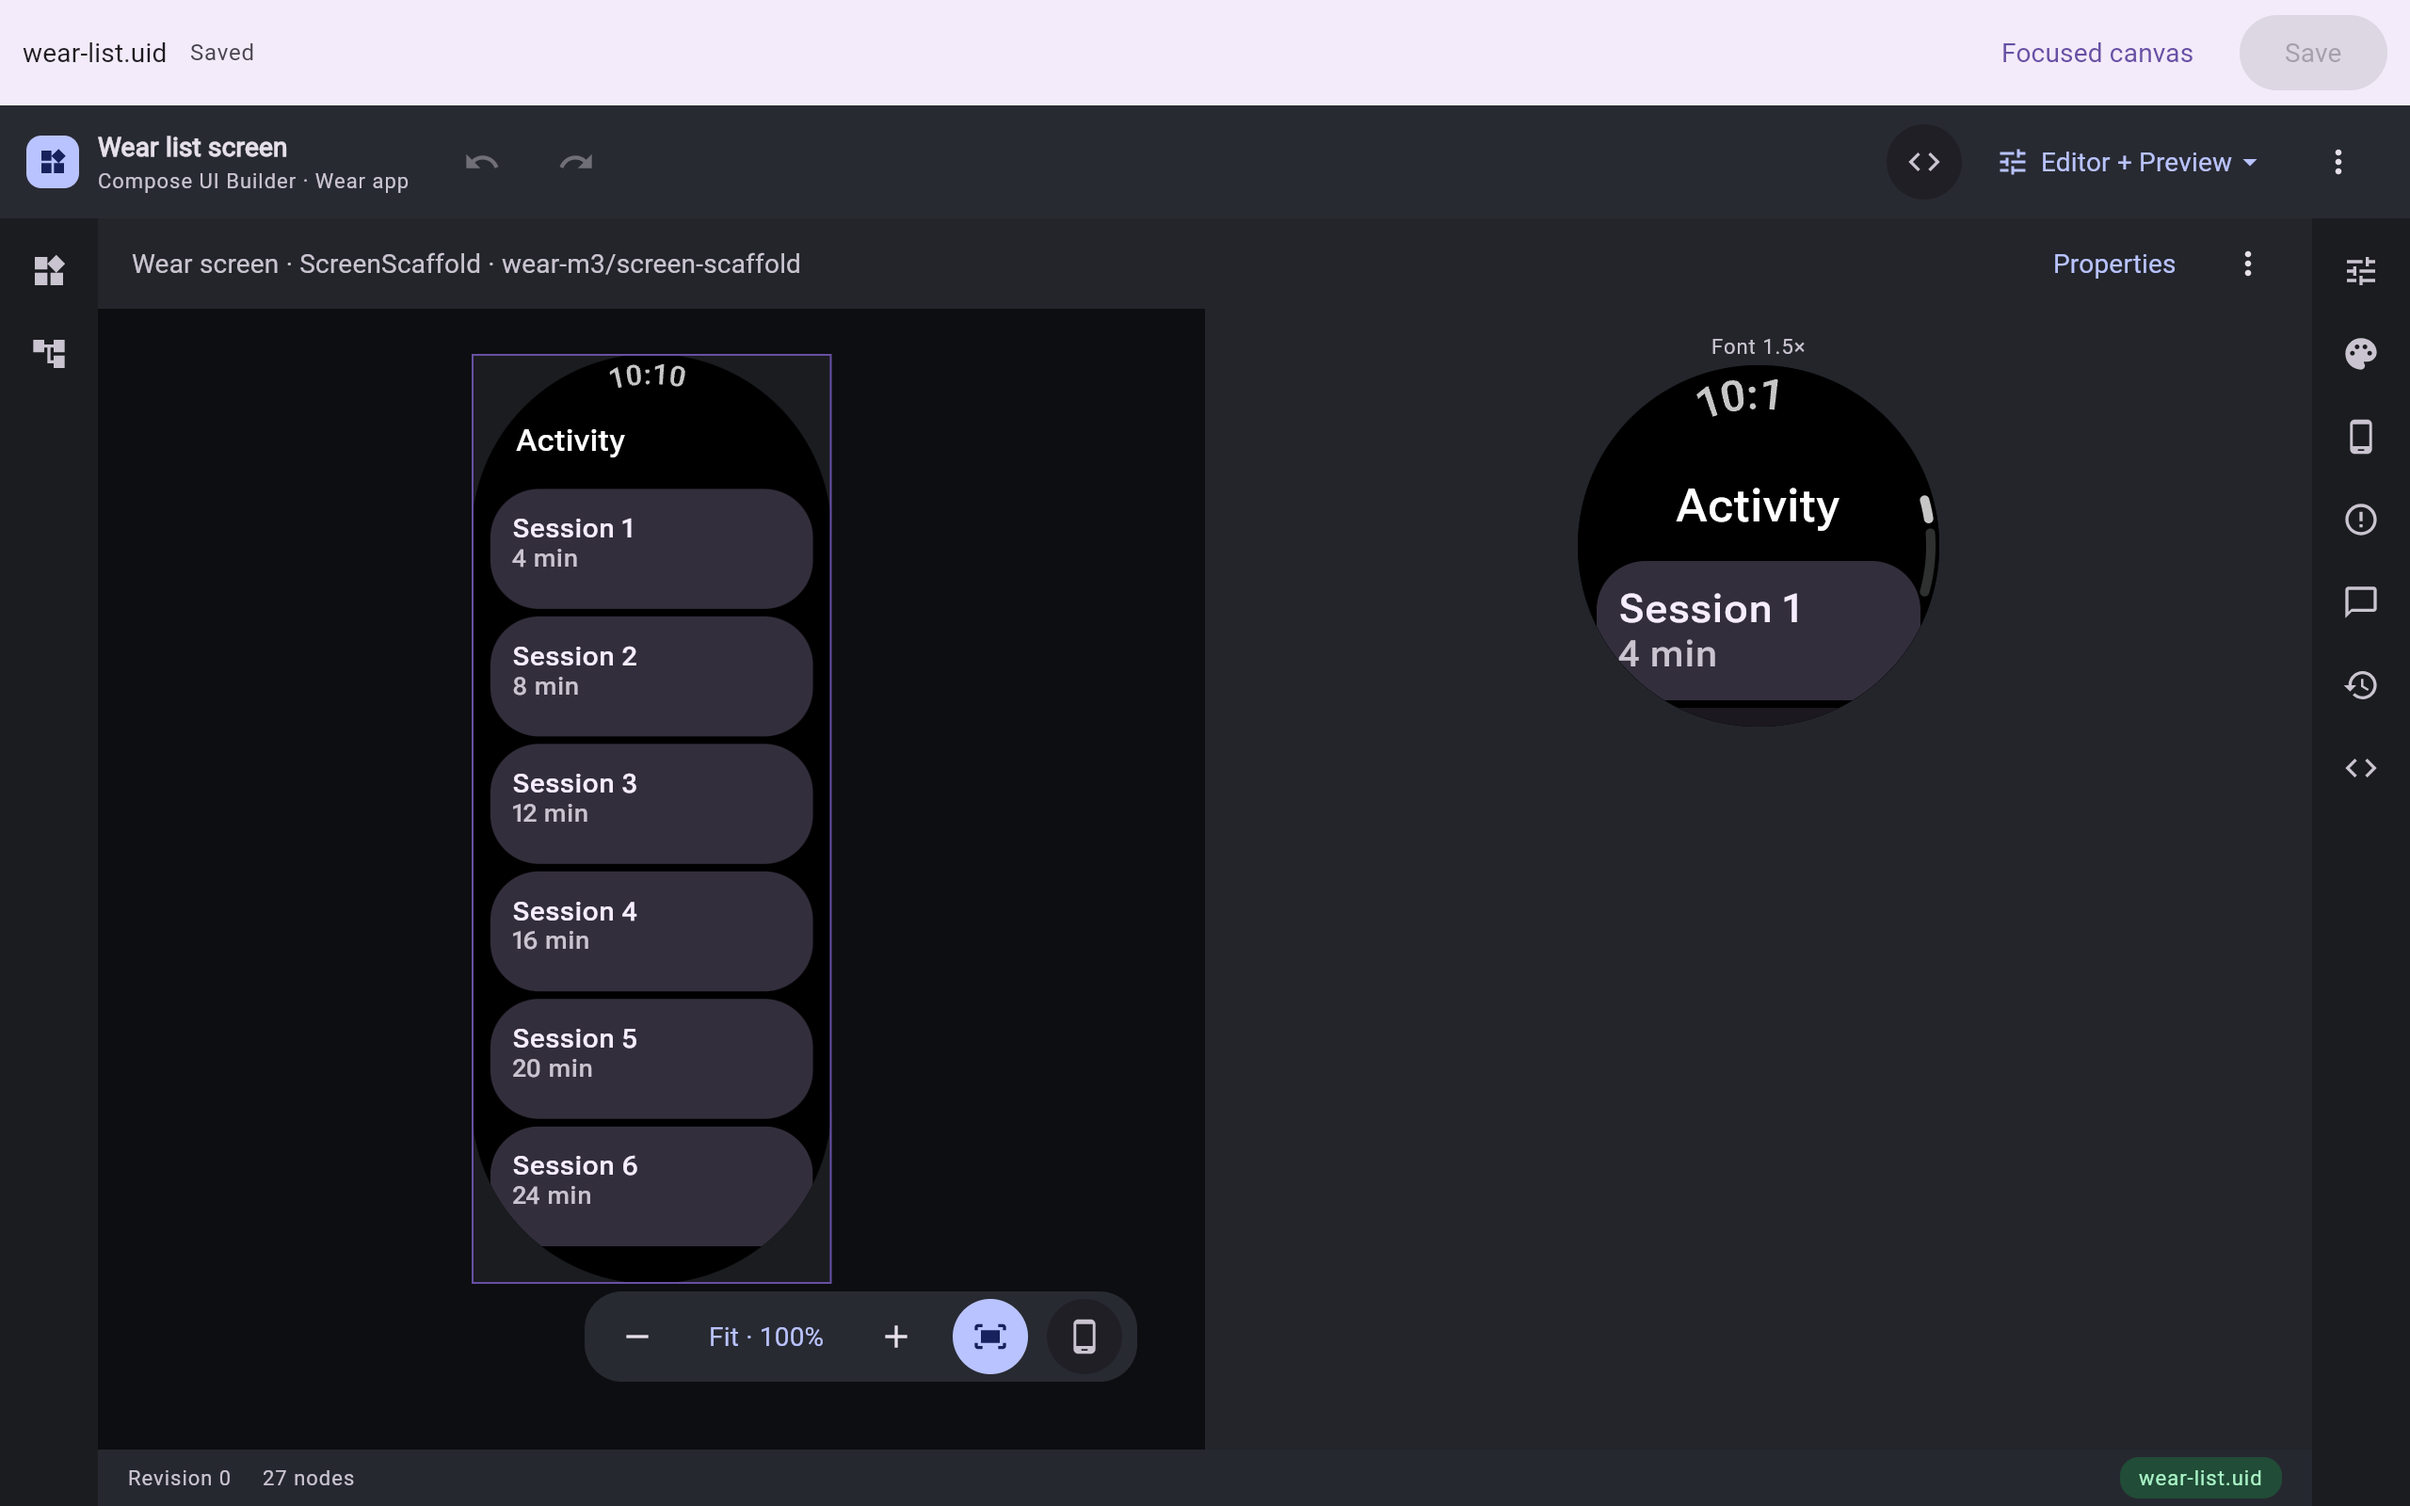
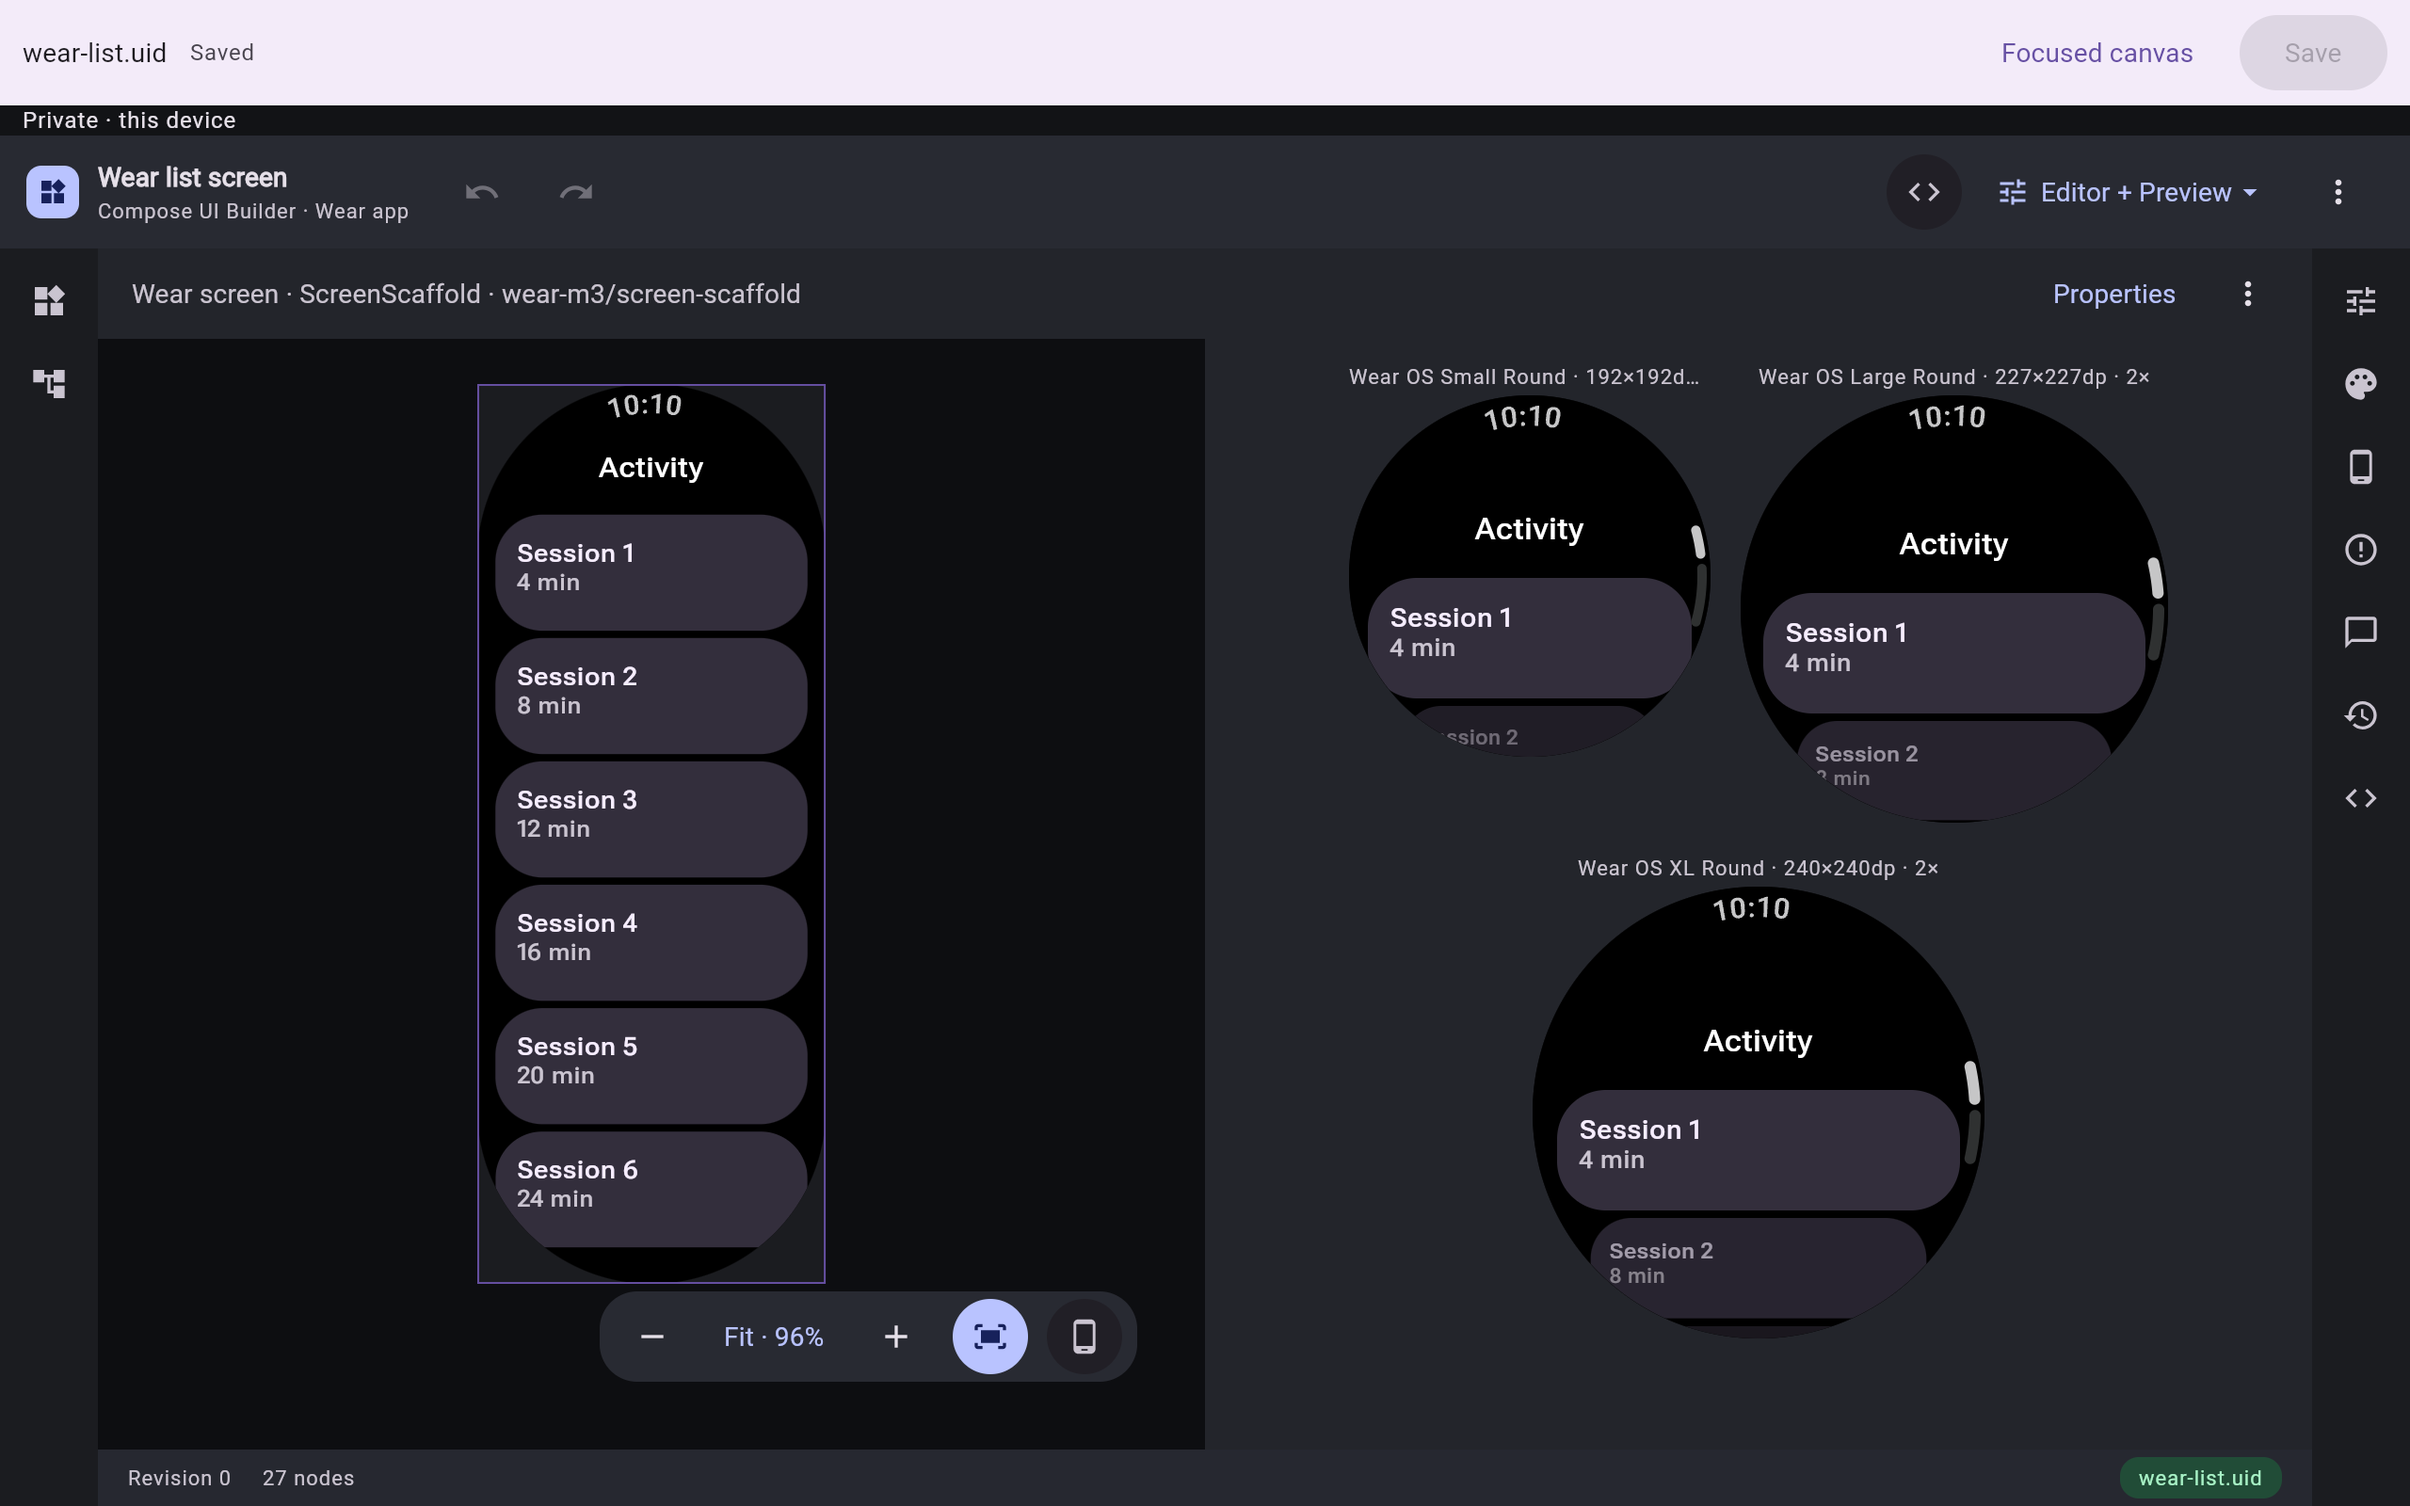
fix(site): step 1 shows the three watches; step 3 hides the device previews
- Step 1 no longer switches on the large-font comparison. Its preview strip
  shows the design's export devices: the small, large and XL round watches.
- Step 3 turns the Preview pane off from the view menu, as the hero does, so
  the canvas and the generated code share the width. The code toggle moves
  right once the pane is off.

https://claude.ai/code/session_01RmVKgDApujVdGLzcErXRun

diff --git a/site/index.html b/site/index.html
@@ -33,7 +33,7 @@
 
     <ol id="how" class="steps">
       <li class="step">
-        <a class="shot" href="img/step-1-template.png"><img src="img/step-1-template.png" alt="The Wear list template on the canvas, with dark and large-font previews beside it" width="1280" height="800"></a>
+        <a class="shot" href="img/step-1-template.png"><img src="img/step-1-template.png" alt="The Wear list template on the canvas, with small, large and XL round watch previews beside it" width="1280" height="800"></a>
         <div class="step-text">
           <span class="step-num">1</span>
           <div>

diff --git a/site/README.md b/site/README.md
@@ -70,7 +70,7 @@ node capture.mjs /path/to/unpacked-zip ../../site/img
 ```
 
 `SHOTS=hero,gallery/weather-widget` captures only some. If the editor's chrome moves, the click
-points in `capture.mjs` (the Screen dock and its compare chips, the view menu, the code toggle, the comment and Quick edit menus)
+points in `capture.mjs` (the view menu, the code toggle, the comment and Quick edit menus)
 may need adjusting. Each can be overridden from the environment while tuning, `DEBUG_SHOTS=1` saves
 the open comment menu, and `SHOTS=explore EXPLORE='x,y;x,y'` clicks through the editor saving a
 picture after each step (`EXPLORE_SCENE=chat` for step 2's focused canvas).
